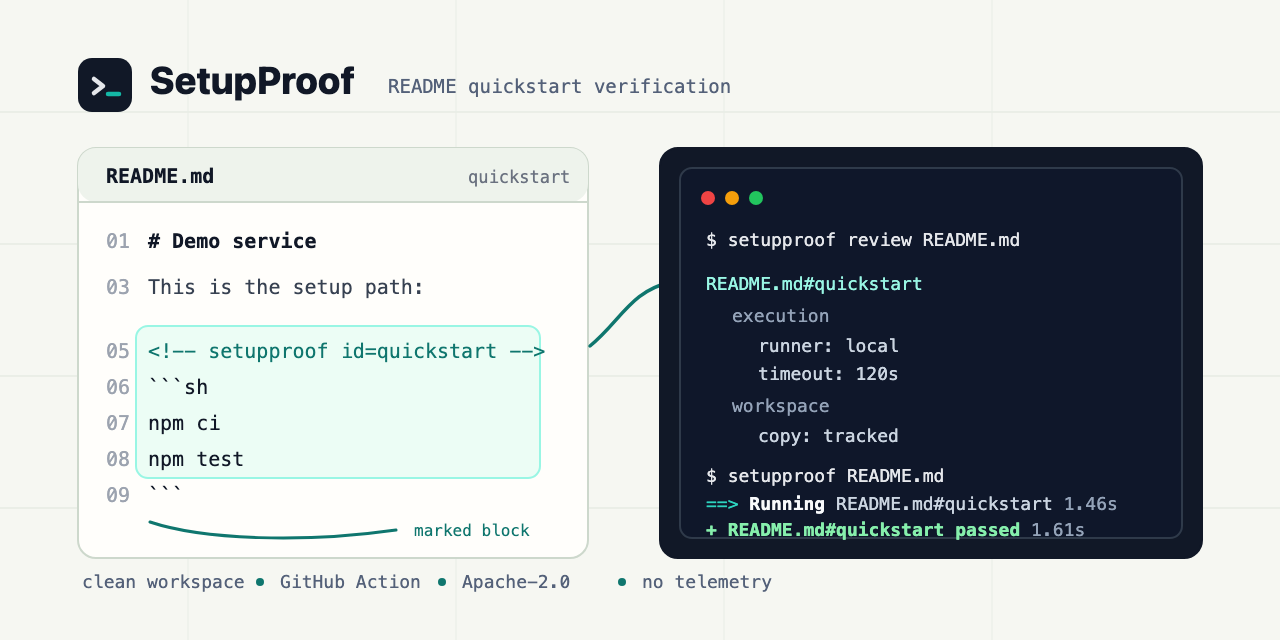
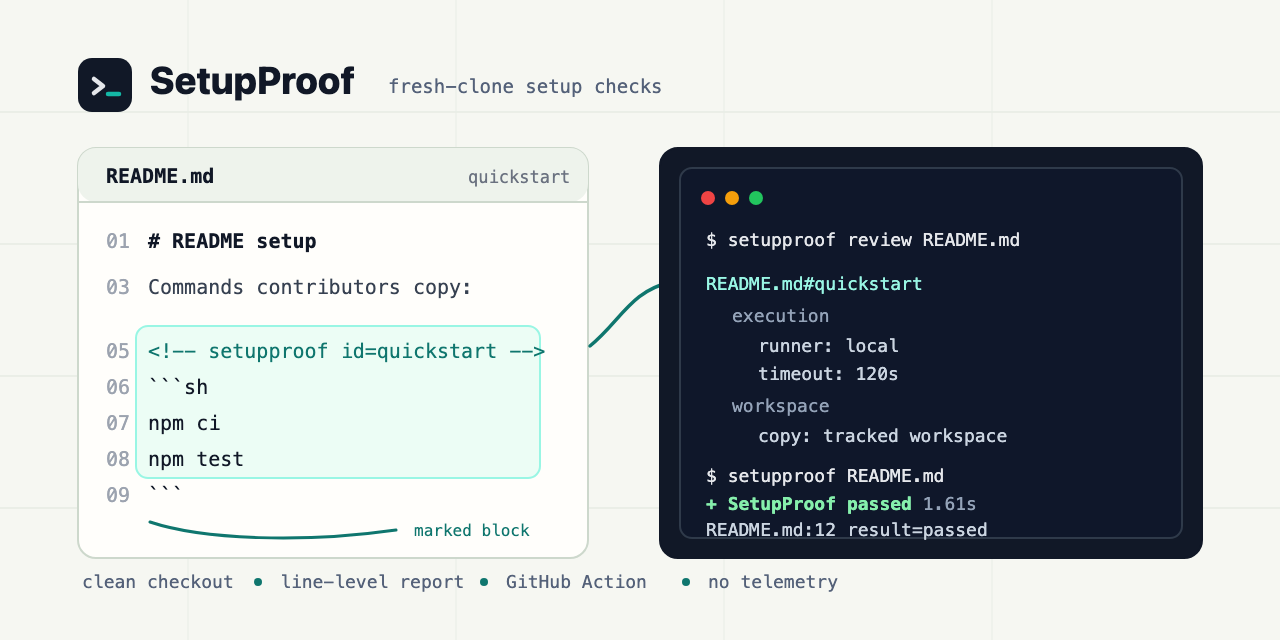
Update public materials

diff --git a/docs/index.html b/docs/index.html
@@ -6,7 +6,7 @@
     <title>SetupProof</title>
     <meta
       name="description"
-      content="Test marked README quickstarts from a clean workspace before contributors hit them."
+      content="Run README setup commands from a clean checkout before contributors copy them."
     >
     <link
       rel="icon"
@@ -15,7 +15,7 @@
     <meta property="og:title" content="SetupProof">
     <meta
       property="og:description"
-      content="README quickstart verification for maintainers."
+      content="Keep README setup commands runnable from a clean checkout."
     >
     <meta property="og:type" content="website">
     <meta property="og:url" content="https://setupproof.github.io/setupproof/">
@@ -27,7 +27,7 @@
     <meta name="twitter:title" content="SetupProof">
     <meta
       name="twitter:description"
-      content="README quickstart verification for maintainers."
+      content="Keep README setup commands runnable from a clean checkout."
     >
     <meta
       name="twitter:image"
@@ -183,6 +183,11 @@
         transform: translateY(-2px);
       }
 
+      .button:focus-visible {
+        outline: 3px solid color-mix(in srgb, var(--teal) 62%, #ffffff);
+        outline-offset: 3px;
+      }
+
       .button.secondary:hover {
         border-color: var(--teal);
         color: var(--teal-dark);
@@ -328,6 +333,14 @@
       .case-list li {
         padding: 20px 0;
         border-bottom: 1px solid var(--line);
+        transition:
+          color 180ms ease,
+          transform 180ms ease;
+      }
+
+      .case-list li:hover {
+        color: var(--teal-dark);
+        transform: translateX(6px);
       }
 
       .case-list strong {
@@ -363,6 +376,11 @@
         gap: 18px;
         padding: 20px 0;
         border-bottom: 1px solid var(--line);
+        transition: transform 180ms ease;
+      }
+
+      .steps li:hover {
+        transform: translateX(6px);
       }
 
       .steps span {
@@ -408,12 +426,15 @@
         white-space: nowrap;
       }
 
-      .reveal {
-        opacity: 1;
-        transform: none;
+      .motion-ready .reveal {
+        opacity: 0;
+        transform: translateY(18px);
+        transition:
+          opacity 520ms ease,
+          transform 520ms ease;
       }
 
-      .reveal.visible {
+      .motion-ready .reveal.visible {
         opacity: 1;
         transform: none;
       }
@@ -445,7 +466,7 @@
         .proof,
         .cases,
         .workflow-grid {
-          grid-template-columns: 1fr;
+          grid-template-columns: minmax(0, 1fr);
         }
 
         .hero {
@@ -454,6 +475,7 @@
         }
 
         .demo img {
+          min-width: 0;
           width: 100%;
         }
 
@@ -523,18 +545,18 @@
     <main id="top">
       <section class="hero" aria-labelledby="hero-title">
         <div class="hero-copy">
-          <p class="eyebrow">README quickstart verification</p>
+          <p class="eyebrow">Fresh-clone setup checks</p>
           <h1 id="hero-title">SetupProof</h1>
           <p class="lede">
-            Run the setup command people copy from the README before a new
-            contributor has to debug it.
+            Mark the README setup block you stand behind. Run it from a copied
+            workspace and get the exact line to fix when it drifts.
           </p>
           <div class="actions">
             <a class="button primary" href="https://github.com/setupproof/setupproof#install">
-              Install
+              Install CLI
             </a>
             <a class="button secondary" href="https://github.com/setupproof/setupproof#github-actions">
-              GitHub Action
+              Add Action
             </a>
           </div>
         </div>
@@ -555,7 +577,7 @@
       <section class="proof reveal" id="proof" aria-labelledby="proof-title">
         <div>
           <p class="section-kicker">What it catches</p>
-          <h2 id="proof-title">A broken README should fail in CI.</h2>
+          <h2 id="proof-title">Let a broken README quickstart fail in CI.</h2>
           <p>
             SetupProof runs the shell block maintainers explicitly mark, then
             reports the README location that needs attention.
@@ -568,16 +590,12 @@
 npm ci
 npm test
 ```</code></pre>
-          <pre><code><span class="fail">!</span> SetupProof failed
-  1 block, 1 file, 742ms
+          <pre><code><span class="fail">!</span> SetupProof failed  742ms
+  1 block, 1 file
 
-<span class="fail">!</span> README.md#quickstart
-  file=README.md:18
-  runner=local
-  timeout=120s result=failed
-  exit=1
-  next command:
-    setupproof review README.md</code></pre>
+<span class="fail">!</span> README.md#quickstart failed  742ms
+  README.md:18 runner=local timeout=120s result=failed exit=1 reason=exit-code
+  next: setupproof review README.md</code></pre>
           <p class="terminal-note">
             Fix the setup path once, in the same place contributors read it.
           </p>
@@ -588,7 +606,7 @@ npm test
         <div>
           <p class="section-kicker">Where it helps</p>
           <h2 id="examples-title">
-            Catch the boring break before a contributor does.
+            Catch the small break before a contributor does.
           </h2>
           <p>
             Setup docs usually fail because something small moved and nobody
@@ -627,8 +645,8 @@ npm test
             <p class="section-kicker">Maintainer path</p>
             <h2 id="workflow-title">Mark, review, run.</h2>
             <p>
-              Keep prose examples inert by default and make only the real setup
-              path executable.
+              Keep prose examples inert and make only the real setup path
+              executable.
             </p>
           </div>
 
@@ -673,6 +691,8 @@ npm test
     </main>
 
     <script>
+      document.documentElement.classList.add("motion-ready");
+
       const observer = new IntersectionObserver(
         (entries) => {
           for (const entry of entries) {

diff --git a/README.md b/README.md
@@ -2,21 +2,25 @@
 
 [![SetupProof](https://github.com/setupproof/setupproof/actions/workflows/setupproof.yml/badge.svg)](https://github.com/setupproof/setupproof/actions/workflows/setupproof.yml)
 
-Prove README setup commands still run from a clean checkout.
+Run the README setup path from a clean checkout before contributors copy it.
 
-Setup docs drift because normal CI checks the code, not the commands people
-copy from the README. A renamed Compose service, a moved package path, or an
-install command that no longer matches the lockfile can turn the first five
-minutes into guesswork. SetupProof gives maintainers a small, explicit check
-for that boundary: mark the shell block you expect to keep working, then run it
-locally or in CI.
+Normal CI proves code; it rarely proves the commands someone runs in the first
+five minutes. SetupProof lets maintainers mark the setup block they want to
+stand behind, then run that exact block locally or in CI from a copied
+workspace. If it breaks, the report points back to the README line that needs
+fixing.
+
+- Mark only the trusted shell block.
+- Review the plan without executing commands.
+- Run the block locally or in GitHub Actions, with no telemetry and no secret
+  environment passthrough unless configured.
 
 ![Terminal demo showing SetupProof reviewing and running a marked README quickstart](docs/demo/setupproof.gif)
 
 ## What It Catches
 
 README quickstarts usually fail in small, ordinary ways: a package moves, a test
-command changes, or a prerequisite is no longer true. SetupProof turns the
+command changes, or a prerequisite stops being true. SetupProof turns the
 marked block into the thing CI verifies.
 
 ````md
@@ -40,7 +44,7 @@ would have copied:
 ```
 
 The goal is not to lint Markdown. The goal is to keep the public setup path
-runnable from a clean checkout.
+runnable from a fresh clone.
 
 Good first targets are the commands a new contributor runs before they know the
 project: install dependencies, run the default tests, start the local service,

diff --git a/docs/RECIPES.md b/docs/RECIPES.md
@@ -1,6 +1,7 @@
 # Configuration Recipes
 
-Copyable `setupproof.yml` starters for common repository layouts. Each recipe
+Use a config when no-argument runs should inspect more than the root README, or
+when a setup path needs runner, timeout, or environment defaults. Each recipe
 sticks to fields documented in `schemas/setupproof-config.schema.json` and
 explains the tradeoff in one or two sentences.
 
@@ -59,11 +60,11 @@ files:
 
 Set `requireBlocks: false` for repositories whose docs pages mostly contain
 prose plus illustrative commands that should not be executed unattended. With
-this recipe, run `setupproof review` (or in CI, `setupproof
---list`) to inspect what SetupProof would discover without actually running
-any block. This keeps the v0.1 review path useful for archives and copy-this-
-verbatim guides, at the cost of losing the safety net that `requireBlocks:
-true` provides for active install docs.
+this recipe, run `setupproof review` (or `setupproof --list` in CI) to inspect
+what SetupProof would discover without executing any block. This keeps the
+v0.1 review path useful for archives and copy-this-verbatim guides, at the cost
+of losing the safety net that `requireBlocks: true` provides for active install
+docs.
 
 ## Projects That Require Docker For Setup Verification
 

diff --git a/docs/TROUBLESHOOTING.md b/docs/TROUBLESHOOTING.md
@@ -1,6 +1,6 @@
 # Troubleshooting
 
-Use non-executing commands first when a setup-doc check is confusing:
+Start with commands that describe the plan before running any setup block:
 
 ```sh
 setupproof review README.md
@@ -8,7 +8,7 @@ setupproof doctor README.md
 setupproof --dry-run --json --require-blocks README.md
 ```
 
-Then run the marked blocks once the plan matches the setup path you expect:
+Run the marked blocks once the plan matches the setup path you expect:
 
 ```sh
 setupproof --require-blocks --no-color --no-glyphs README.md
@@ -28,7 +28,18 @@ marker fails loudly instead of producing an empty run.
 
 ## Command Failed
 
-A line such as this is an ordinary setup command failure:
+Styled terminal output points at the README block first:
+
+```text
+! SetupProof failed  742ms
+  1 block, 1 file
+
+! README.md#quickstart failed  742ms
+  README.md:18 runner=local timeout=120s result=failed exit=1 reason=exit-code
+  next: setupproof review README.md
+```
+
+Plain CI logs use the same facts on one row:
 
 ```text
 [failed] README.md#quickstart file=README.md:18 runner=local timeout=120s result=failed exit=1 reason=exit-code

diff --git a/examples/failing-go/README.md b/examples/failing-go/README.md
@@ -6,8 +6,8 @@ failing example so maintainers can verify SetupProof's failure output
 end-to-end, and so the docs have a concrete reference for "what does a
 real failure look like".
 
-The marked block targets `./internal/greeter`, but the package actually
-lives under `./pkg/greeter` (a common drift pattern: a contributor moves
+The marked block targets `./internal/greeter`, but the package now lives under
+`./pkg/greeter` (a common drift pattern: a contributor moves
 a package and forgets to update the README). Running the block from a
 clean checkout fails with an exit-1 from `go test`.
 

diff --git a/docs/demo/README.md b/docs/demo/README.md
@@ -1,10 +1,10 @@
 # Demo
 
-`setupproof.gif` is the short terminal demo used by the main README.
-`setupproof.tape` is the VHS source, and `prepare-recording.sh` prepares the
-temporary project used by that recording.
+`setupproof.gif` is the short terminal demo used by the main README. The VHS
+source is `setupproof.tape`; `prepare-recording.sh` builds the temporary
+project used by the recording.
 
-The GIF shows the maintainer path:
+The GIF shows the adoption path:
 
 1. inspect the marked README quickstart;
 2. review execution, workspace, environment, and report semantics without

diff --git a/docs/COMPARISON.md b/docs/COMPARISON.md
@@ -1,7 +1,11 @@
 # Comparison
 
-SetupProof is for maintainers who want README setup commands to fail in CI
-before new contributors copy stale instructions.
+SetupProof does one job: prove that the setup commands people copy from the
+README still run from a clean checkout.
+
+It is not a Markdown linter, notebook runner, or replacement for the project's
+test suite. It sits at the documentation boundary where drift is easy to miss:
+the command in the README changed from trusted instructions into stale advice.
 
 ## SetupProof
 

diff --git a/examples/README.md b/examples/README.md
@@ -1,8 +1,9 @@
 # SetupProof Examples
 
-These are small example projects with marked quickstart blocks. They are meant
-to show realistic SetupProof inputs, not distribution or release instructions
-for SetupProof itself.
+These small projects show which README blocks make good SetupProof targets:
+setup commands that should keep working from a clean checkout. They are example
+inputs for the CLI, not distribution or release instructions for SetupProof
+itself.
 
 Examples included:
 

diff --git a/SUPPORT.md b/SUPPORT.md
@@ -1,9 +1,10 @@
 # Support
 
-SetupProof v0.1.0 can run from the Go module install path, release archives, a
+SetupProof v0.1.2 can run from the Go module install path, release archives, a
 source checkout, or the pinned GitHub Action.
 
-For help with a SetupProof run, include:
+For help with a run, include enough context to identify the marked block and
+the runner environment:
 
 - the command you ran;
 - `setupproof --version`;

diff --git a/docs/ARCHITECTURE.md b/docs/ARCHITECTURE.md
@@ -78,5 +78,5 @@ Changes to workspace copy, process cleanup, stream capture, redaction, timeout
 handling, or Docker behavior should include focused runner tests and a race-test
 run.
 
-Changes to public docs should keep release-channel claims tied to channels that
-are actually published and tested.
+Changes to public docs should keep release-channel claims tied to published and
+tested channels.

diff --git a/docs/INSTALL.md b/docs/INSTALL.md
@@ -1,6 +1,7 @@
 # Install And CI
 
-SetupProof v0.1.2 ships as a Go module, GitHub release archives, and a
+Install the CLI when you want to verify marked README setup blocks locally or
+in CI. SetupProof v0.1.2 ships as a Go module, GitHub release archives, and a
 versioned composite GitHub Action. npm registry, Homebrew, winget, Chocolatey,
 and Scoop packages are not published yet.
 

diff --git a/.github/ISSUE_TEMPLATE/bug_report.md b/.github/ISSUE_TEMPLATE/bug_report.md
@@ -8,11 +8,11 @@ assignees: ""
 
 ## Summary
 
-What happened, and what did you expect?
+What did SetupProof do, and what should it have done instead?
 
 ## Reproduction
 
-Use the smallest Markdown file and config that demonstrate the issue.
+Use the smallest Markdown file and config that reproduce the issue.
 
 ````md
 <!-- setupproof id=example -->
